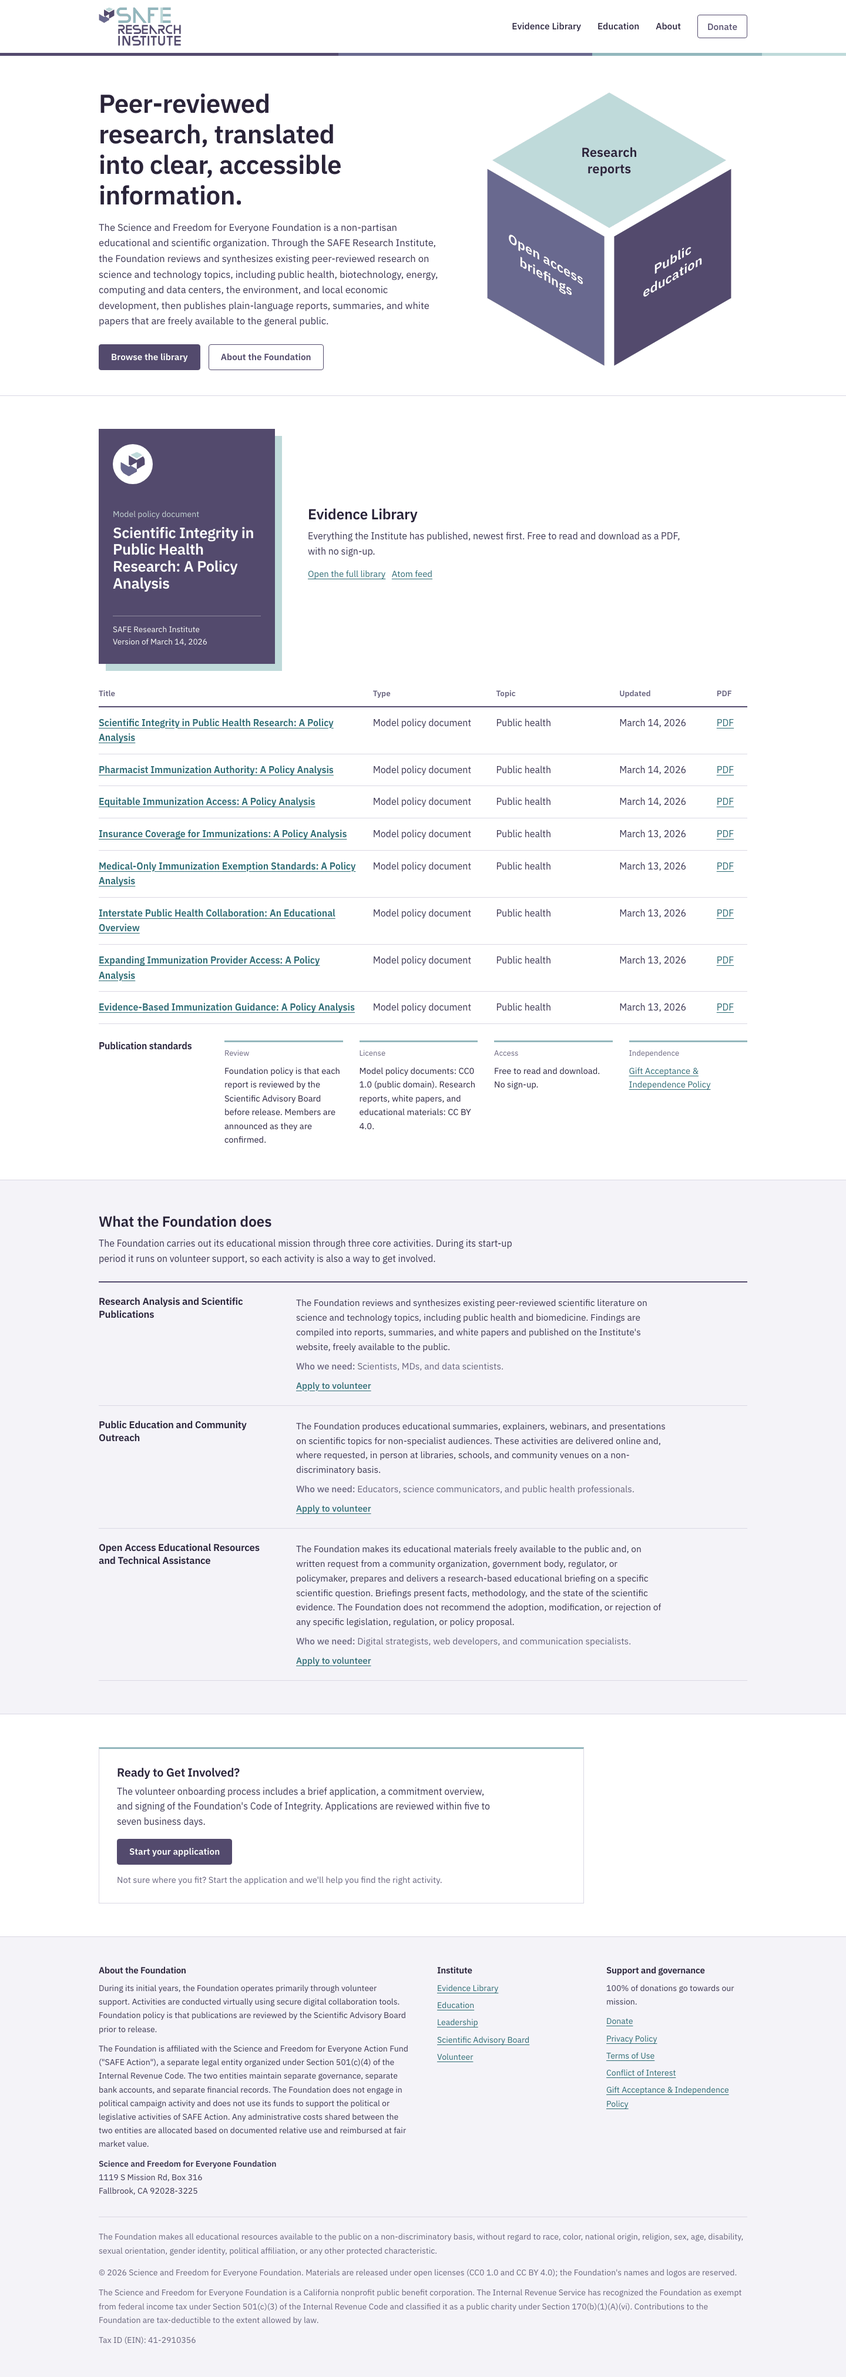
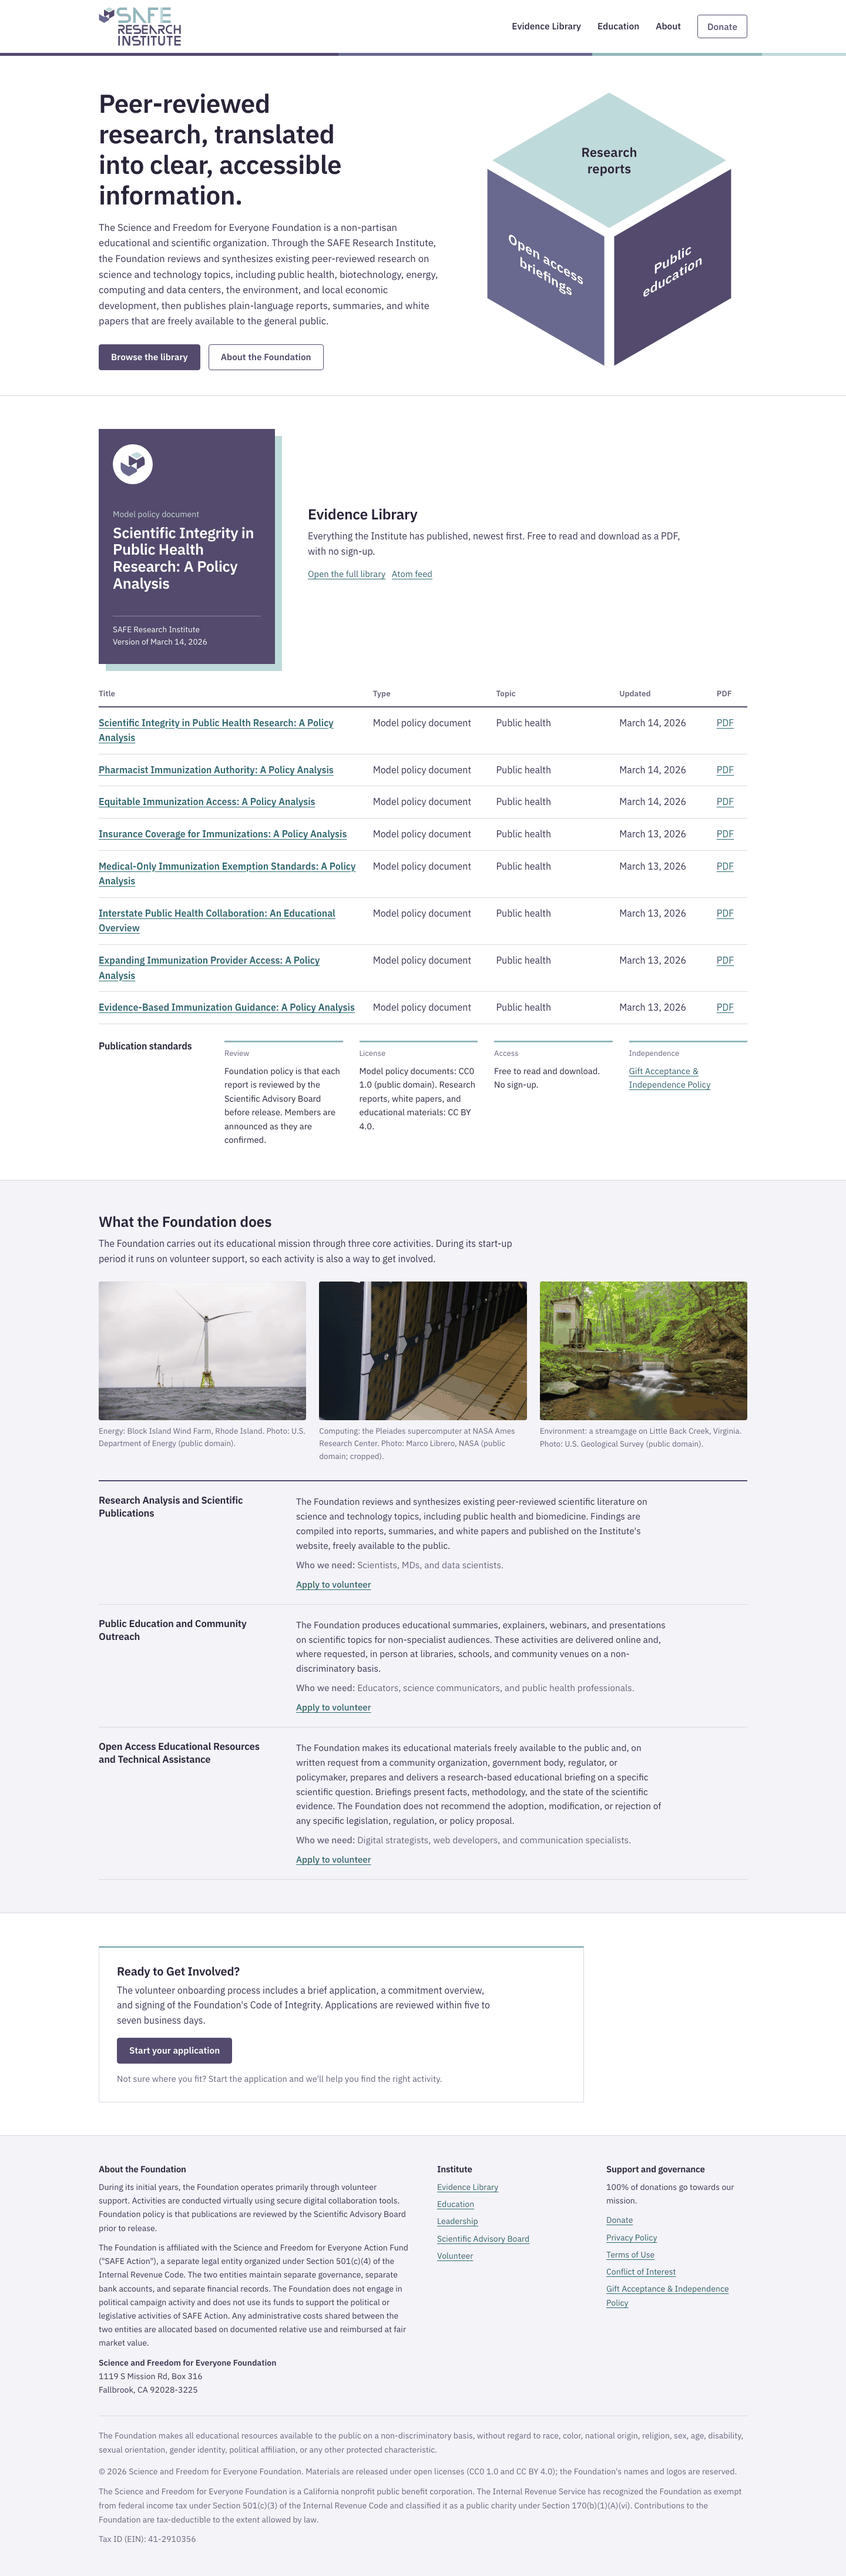
Add five public domain photographs to Home and Education, with credits
NIH, Department of Energy, NASA and USGS photographs, each license read
on its source page (docs/redesign/image_credits.md). Resized to 1,600 px
and compressed. No faces; the NASA insignia is cropped out.

diff --git a/index.html b/index.html
@@ -168,6 +168,20 @@
       <h2>What the Foundation does</h2>
       <p>The Foundation carries out its educational mission through three core activities. During its start-up period it runs on volunteer support, so each activity is also a way to get involved.</p>
     </div>
+    <div class="photo-strip">
+      <figure class="photo-tile">
+      <img src="img/photos/offshore-wind-farm.jpg" alt="Offshore wind turbines standing in a grey sea." width="1600" height="1068" loading="lazy">
+      <figcaption>Energy: Block Island Wind Farm, Rhode Island. Photo: U.S. Department of Energy (public domain).</figcaption>
+    </figure>
+      <figure class="photo-tile">
+      <img src="img/photos/supercomputer-racks.jpg" alt="A row of supercomputer cabinets in a machine room." width="1600" height="1066" loading="lazy">
+      <figcaption>Computing: the Pleiades supercomputer at NASA Ames Research Center. Photo: Marco Librero, NASA (public domain; cropped).</figcaption>
+    </figure>
+      <figure class="photo-tile">
+      <img src="img/photos/usgs-streamgage.jpg" alt="A small gauge house beside a stream and a low concrete weir in a forest." width="1600" height="1066" loading="lazy">
+      <figcaption>Environment: a streamgage on Little Back Creek, Virginia. Photo: U.S. Geological Survey (public domain).</figcaption>
+    </figure>
+    </div>
     <div class="pillars-grid">
       <div class="pillar-card" id="activity-research">
         <h3>Research Analysis and Scientific Publications</h3>

diff --git a/education.html b/education.html
@@ -53,6 +53,10 @@
 
 <section class="section" id="how-to">
   <div class="container">
+    <figure class="photo-band">
+      <img src="img/photos/lab-pipette.jpg" alt="A gloved hand uses a pipette to draw liquid from a small plastic tube." width="1600" height="1042" loading="lazy">
+      <figcaption>A researcher at the National Human Genome Research Institute removes DNA from a micro test tube. Photo: Maggie Bartlett, NHGRI (public domain).</figcaption>
+    </figure>
     <div class="section-header">
       <h2>How to Become a Science Communicator</h2>
       <p>Effective science communication is a skill built through deliberate practice and cross-disciplinary engagement.</p>
@@ -97,6 +101,10 @@
 
 <section class="section" id="public-communication">
   <div class="container">
+    <figure class="photo-band">
+      <img src="img/photos/cell-culture-plates.jpg" alt="Gloved hands stack plastic cell culture plates on a laboratory bench." width="1600" height="1129" loading="lazy">
+      <figcaption>Preparing well cell culture plates. Photo: Diane A. Reid, National Institutes of Health (public domain).</figcaption>
+    </figure>
     <div class="section-header">
       <h2>Communicating Research to the Public</h2>
       <p>Translating complex science into accessible content is one of the most important responsibilities of a science communicator.</p>

diff --git a/css/style.css b/css/style.css
@@ -417,6 +417,17 @@ a.report-cover:hover { color: #fff; background: var(--ink); }
 .person-bio details[open] summary { margin-bottom: 10px; }
 .person-bio .person-role { color: var(--text); font-size: 0.97rem; }
 
+/* --- Photographs (credits: docs/redesign/image_credits.md) --- */
+.photo-band { margin: 0 0 30px; }
+.photo-band img { width: 100%; height: 300px; object-fit: cover; border-radius: 4px; }
+.photo-strip { display: grid; grid-template-columns: repeat(3, minmax(0, 1fr)); gap: 22px; margin-bottom: 30px; }
+.photo-tile img { width: 100%; aspect-ratio: 3 / 2; height: auto; object-fit: cover; border-radius: 4px; }
+.photo-band figcaption, .photo-tile figcaption { font-size: 0.84rem; color: var(--muted); margin-top: 8px; }
+@media (max-width: 760px) {
+  .photo-band img { height: 200px; }
+  .photo-strip { grid-template-columns: 1fr; }
+}
+
 /* --- Forms --- */
 .form-group { margin-bottom: 22px; }
 .form-group label { display: block; font-size: 0.9rem; font-weight: 600; color: var(--ink); margin-bottom: 6px; }

diff --git a/docs/redesign/image_credits.md b/docs/redesign/image_credits.md
@@ -1,0 +1,18 @@
+# Image credits
+
+Every photograph on saferi.org, with where it came from and the license as read on its own source page. Checked 2026-11-27. Web copies are resized to 1,600 px wide and compressed; originals are not in the repository.
+
+| File | Used on | Shows | Author / credit | License as stated on the source page | Source page |
+|---|---|---|---|---|---|
+| `img/photos/lab-pipette.jpg` | Education | Gloved hand pipetting from a micro test tube | Maggie Bartlett, NHGRI | "work of the National Institutes of Health", public domain | https://commons.wikimedia.org/wiki/File:NHGRI_researcher_uses_a_pipette_to_remove_DNA_from_a_micro_test_tube.jpg |
+| `img/photos/cell-culture-plates.jpg` | Education | Gloved hands with well cell culture plates | Diane A. Reid (photographer), National Institutes of Health | "released into the public domain by its author"; also NIH work | https://commons.wikimedia.org/wiki/File:Well_cell_culture_plates.jpg |
+| `img/photos/offshore-wind-farm.jpg` | Home | Block Island Wind Farm, turbines at sea | U.S. Department of Energy | Work of a U.S. Department of Energy employee, public domain | https://commons.wikimedia.org/wiki/File:Block_Island_Wind_Farm.jpg |
+| `img/photos/supercomputer-racks.jpg` | Home | Pleiades supercomputer cabinets, NASA Ames | Marco Librero, NASA Ames Research Center | "public domain in the United States because it was solely created by NASA" | https://commons.wikimedia.org/wiki/File:Pleiades_supercomputer.jpg |
+| `img/photos/usgs-streamgage.jpg` | Home | USGS streamgage on Little Back Creek, Virginia | U.S. Geological Survey | Page carries both "Creative Commons Attribution 2.0 Generic" and a U.S. Geological Survey public domain statement; credited to USGS, which satisfies both | https://commons.wikimedia.org/wiki/File:USGS_Streamgage_(15358867302).jpg |
+
+Notes
+
+- The supercomputer photo is cropped to the right-hand cabinets so the NASA insignia on two cabinets is not shown. NASA restricts use of its insignia; the photograph itself is public domain.
+- No photo shows a face. None is AI-generated. None shows patients or children.
+- Attribution is not legally required for the public domain items; a credit line is shown under each photo anyway.
+- Downloaded and rejected after viewing: a second streamgage photo (Tohickon Creek, CC0; cluttered composition) and an aerial of the Webberville Solar Farm (CC0; aircraft strut in frame, soft). There is still no usable solar photograph and no photograph of a public meeting room.
